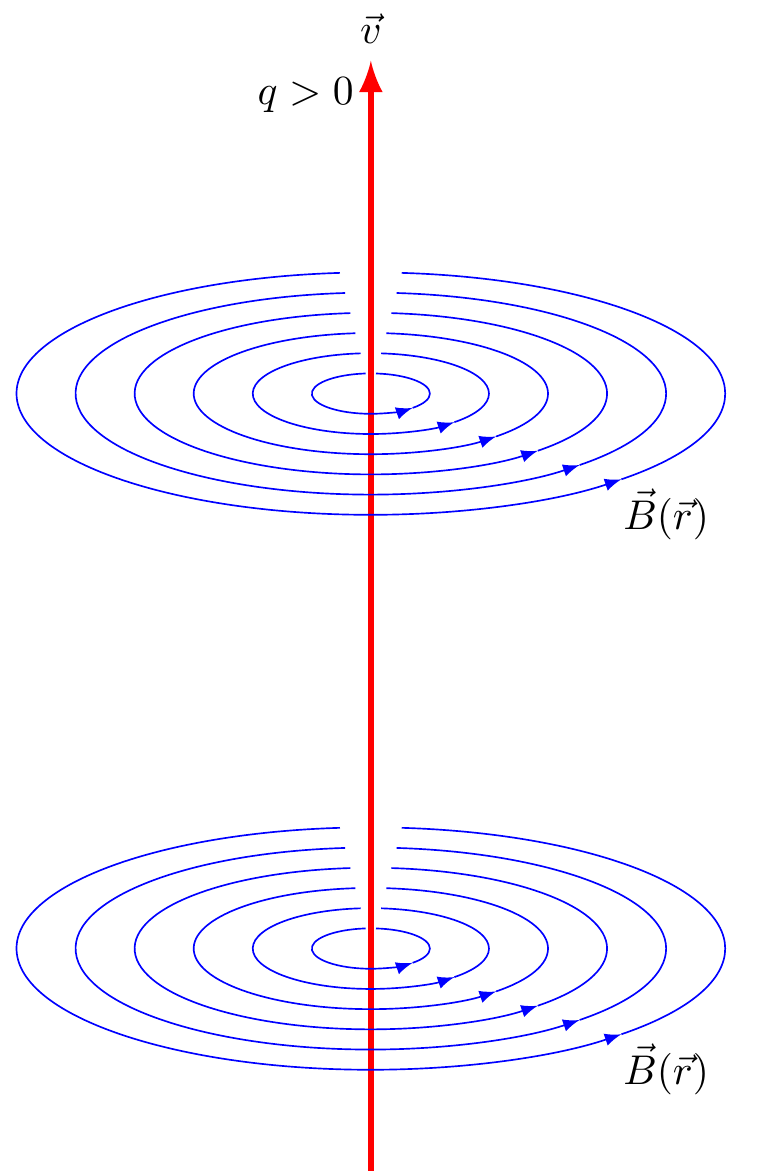
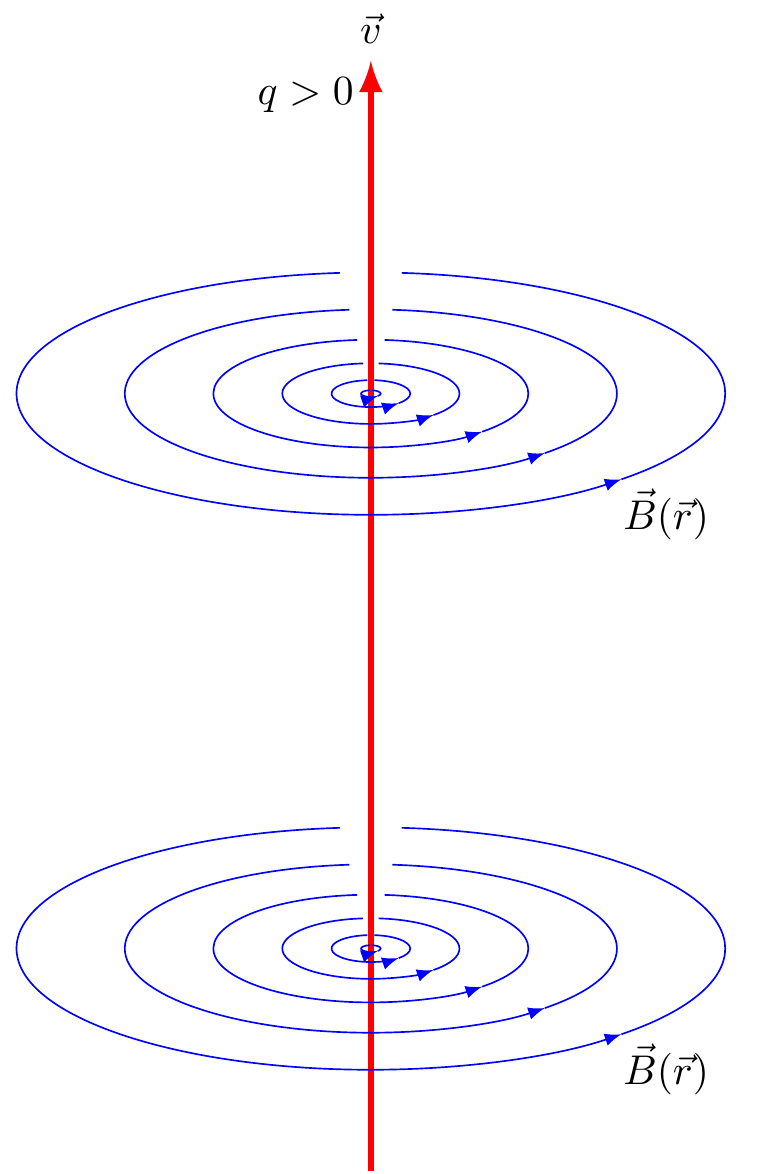
more B field lines near the current

diff --git a/electrodynamics/magnetic-fieldlines-3d/magnetic-fieldlines-3d_inverted.tex b/electrodynamics/magnetic-fieldlines-3d/magnetic-fieldlines-3d_inverted.tex
@@ -16,7 +16,8 @@
 
 \newcommand{\fieldlines}[1]{%
   \begin{scope}[shift={(0,0,#1)}]
-    \foreach \R in {0.5,1,...,3} {
+    \foreach \N in {1,...,6} {
+      \pgfmathsetmacro{\R}{\N^2/12}
       \draw[->,blue] (95:\R) arc (95:315:\R);
       \draw[blue] (315:\R) arc (315:{360+85}:\R);
     }

diff --git a/electrodynamics/magnetic-fieldlines-3d/magnetic-fieldlines-3d.tex b/electrodynamics/magnetic-fieldlines-3d/magnetic-fieldlines-3d.tex
@@ -7,7 +7,8 @@
 
 \newcommand{\fieldlines}[1]{%
   \begin{scope}[shift={(0,0,#1)}]
-    \foreach \R in {0.5,1,...,3} {
+    \foreach \N in {1,...,6} {
+      \pgfmathsetmacro{\R}{\N^2/12}
       \draw[->,blue] (95:\R) arc (95:315:\R);
       \draw[blue] (315:\R) arc (315:{360+85}:\R);
     }

diff --git a/electrodynamics.md b/electrodynamics.md
@@ -1092,7 +1092,8 @@
 
 \newcommand{\fieldlines}[1]{%
   \begin{scope}[shift={(0,0,#1)}]
-    \foreach \R in {0.5,1,...,3} {
+    \foreach \N in {1,...,6} {
+      \pgfmathsetmacro{\R}{\N^2/12}
       \draw[->,blue] (95:\R) arc (95:315:\R);
       \draw[blue] (315:\R) arc (315:{360+85}:\R);
     }
@@ -2895,7 +2896,8 @@
 
 \newcommand{\fieldlines}[1]{%
   \begin{scope}[shift={(0,0,#1)}]
-    \foreach \R in {0.5,1,...,3} {
+    \foreach \N in {1,...,6} {
+      \pgfmathsetmacro{\R}{\N^2/12}
       \draw[->,blue] (95:\R) arc (95:315:\R);
       \draw[blue] (315:\R) arc (315:{360+85}:\R);
     }
